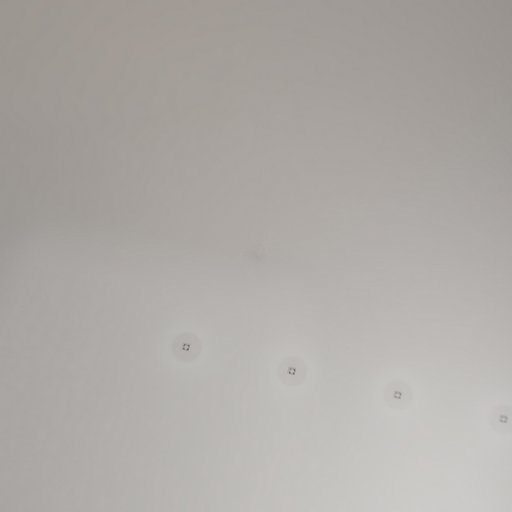
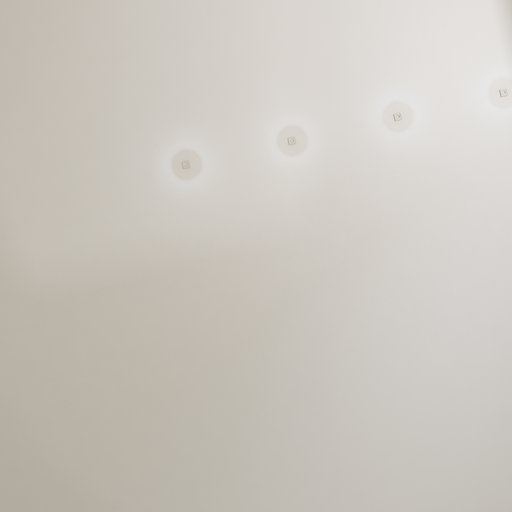
Sala com resolucao melhor

diff --git a/data.js b/data.js
@@ -12,19 +12,27 @@ var APP_DATA = {
         {
           "tileSize": 512,
           "size": 512
+        },
+        {
+          "tileSize": 512,
+          "size": 1024
+        },
+        {
+          "tileSize": 512,
+          "size": 2048
         }
       ],
-      "faceSize": 512,
+      "faceSize": 1600,
       "initialViewParameters": {
-        "yaw": -1.7634963082437203,
-        "pitch": 0.030302853397662588,
-        "fov": 1.8997940173432455
+        "yaw": -1.3557771939230463,
+        "pitch": -0.024516847736956393,
+        "fov": 1.1736957392994543
       },
       "linkHotspots": [
         {
-          "yaw": -3.1403924640653003,
-          "pitch": 0.5254822057487587,
-          "rotation": 6.283185307179586,
+          "yaw": 0.020938741330494892,
+          "pitch": 0.4818759198077469,
+          "rotation": 0,
           "target": "1-sala-2"
         }
       ],
@@ -46,32 +54,32 @@ var APP_DATA = {
       ],
       "faceSize": 512,
       "initialViewParameters": {
-        "yaw": 1.3891941503879544,
-        "pitch": 0.0964494990202791,
-        "fov": 1.8997940173432455
+        "yaw": -1.211648648289943,
+        "pitch": 0.0007377227346321291,
+        "fov": 1.8988380755400427
       },
       "linkHotspots": [
         {
-          "yaw": 3.131620750704851,
-          "pitch": 0.5358735796401319,
+          "yaw": 1.8714933381132832,
+          "pitch": 0.5933631668141341,
           "rotation": 0,
           "target": "0-sala-1"
         },
         {
-          "yaw": -1.7909392553525283,
-          "pitch": 0.5206193110986259,
-          "rotation": 31.415926535897956,
+          "yaw": -2.6569433556914213,
+          "pitch": 0.5888853363516784,
+          "rotation": 0,
           "target": "0-sala-1"
         }
       ],
       "infoHotspots": []
     }
   ],
-  "name": "Project Title",
+  "name": "Fábio Hideki - Viewing Room",
   "settings": {
     "mouseViewMode": "drag",
     "autorotateEnabled": false,
-    "fullscreenButton": false,
-    "viewControlButtons": false
+    "fullscreenButton": true,
+    "viewControlButtons": true
   }
 };
